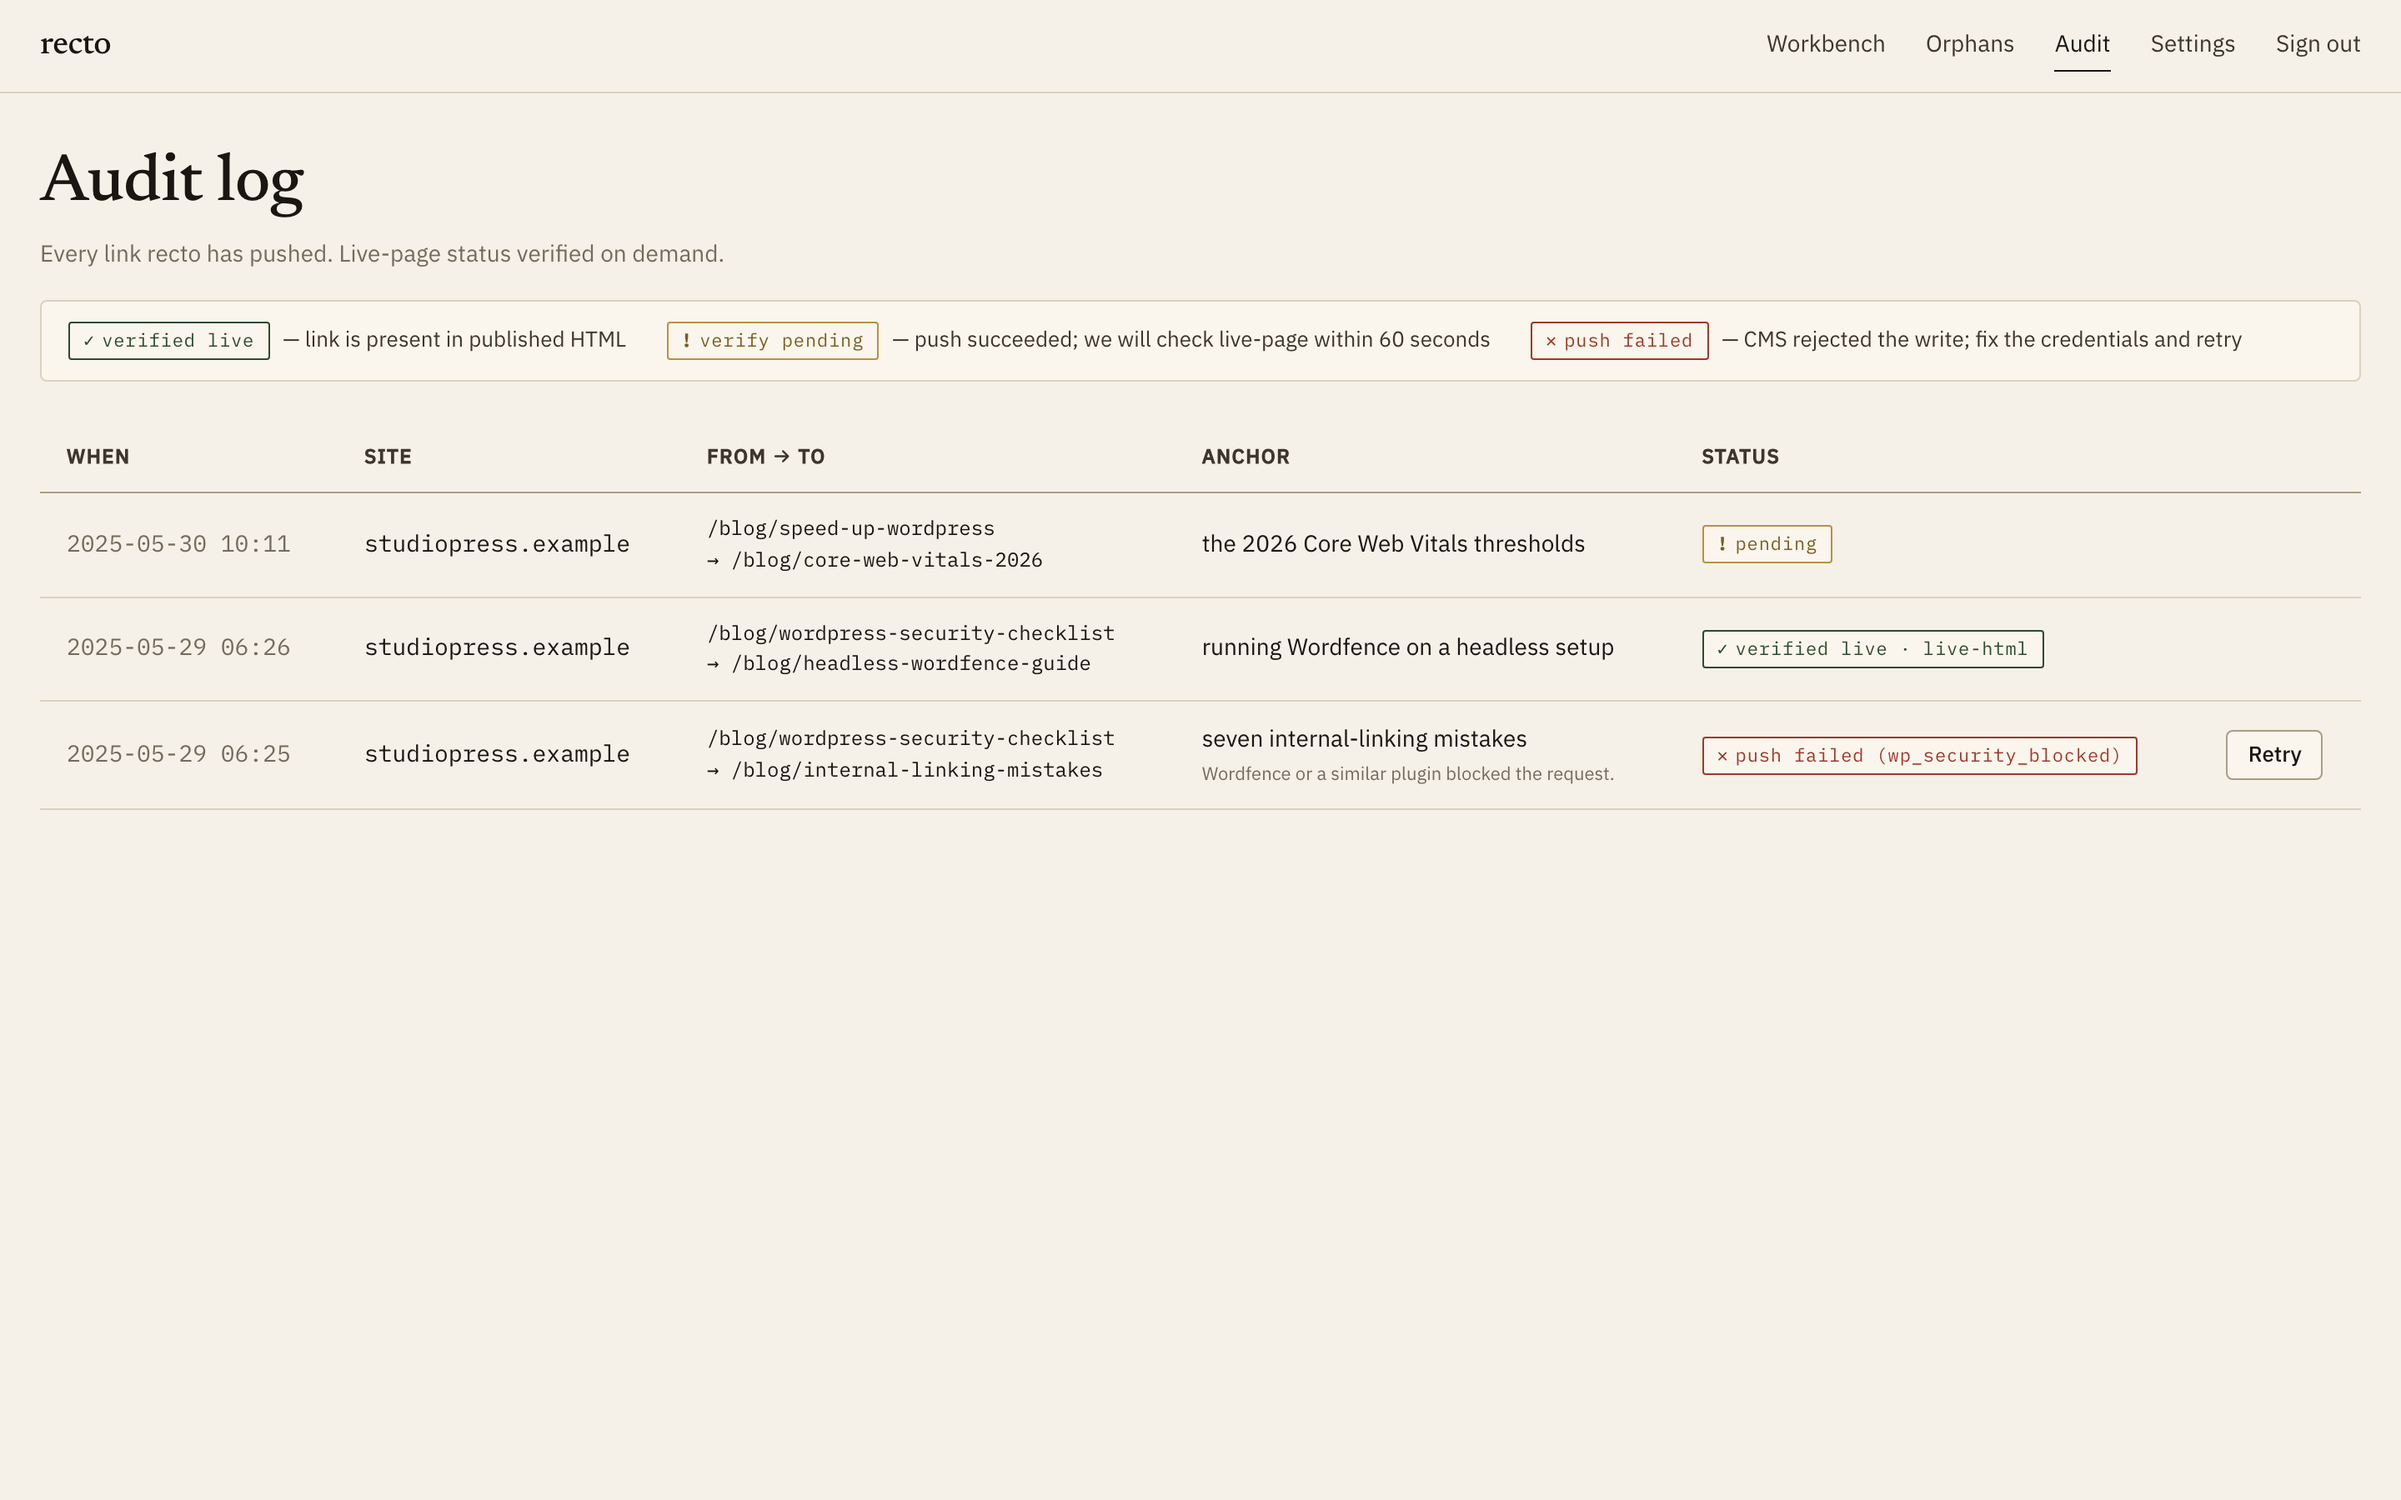
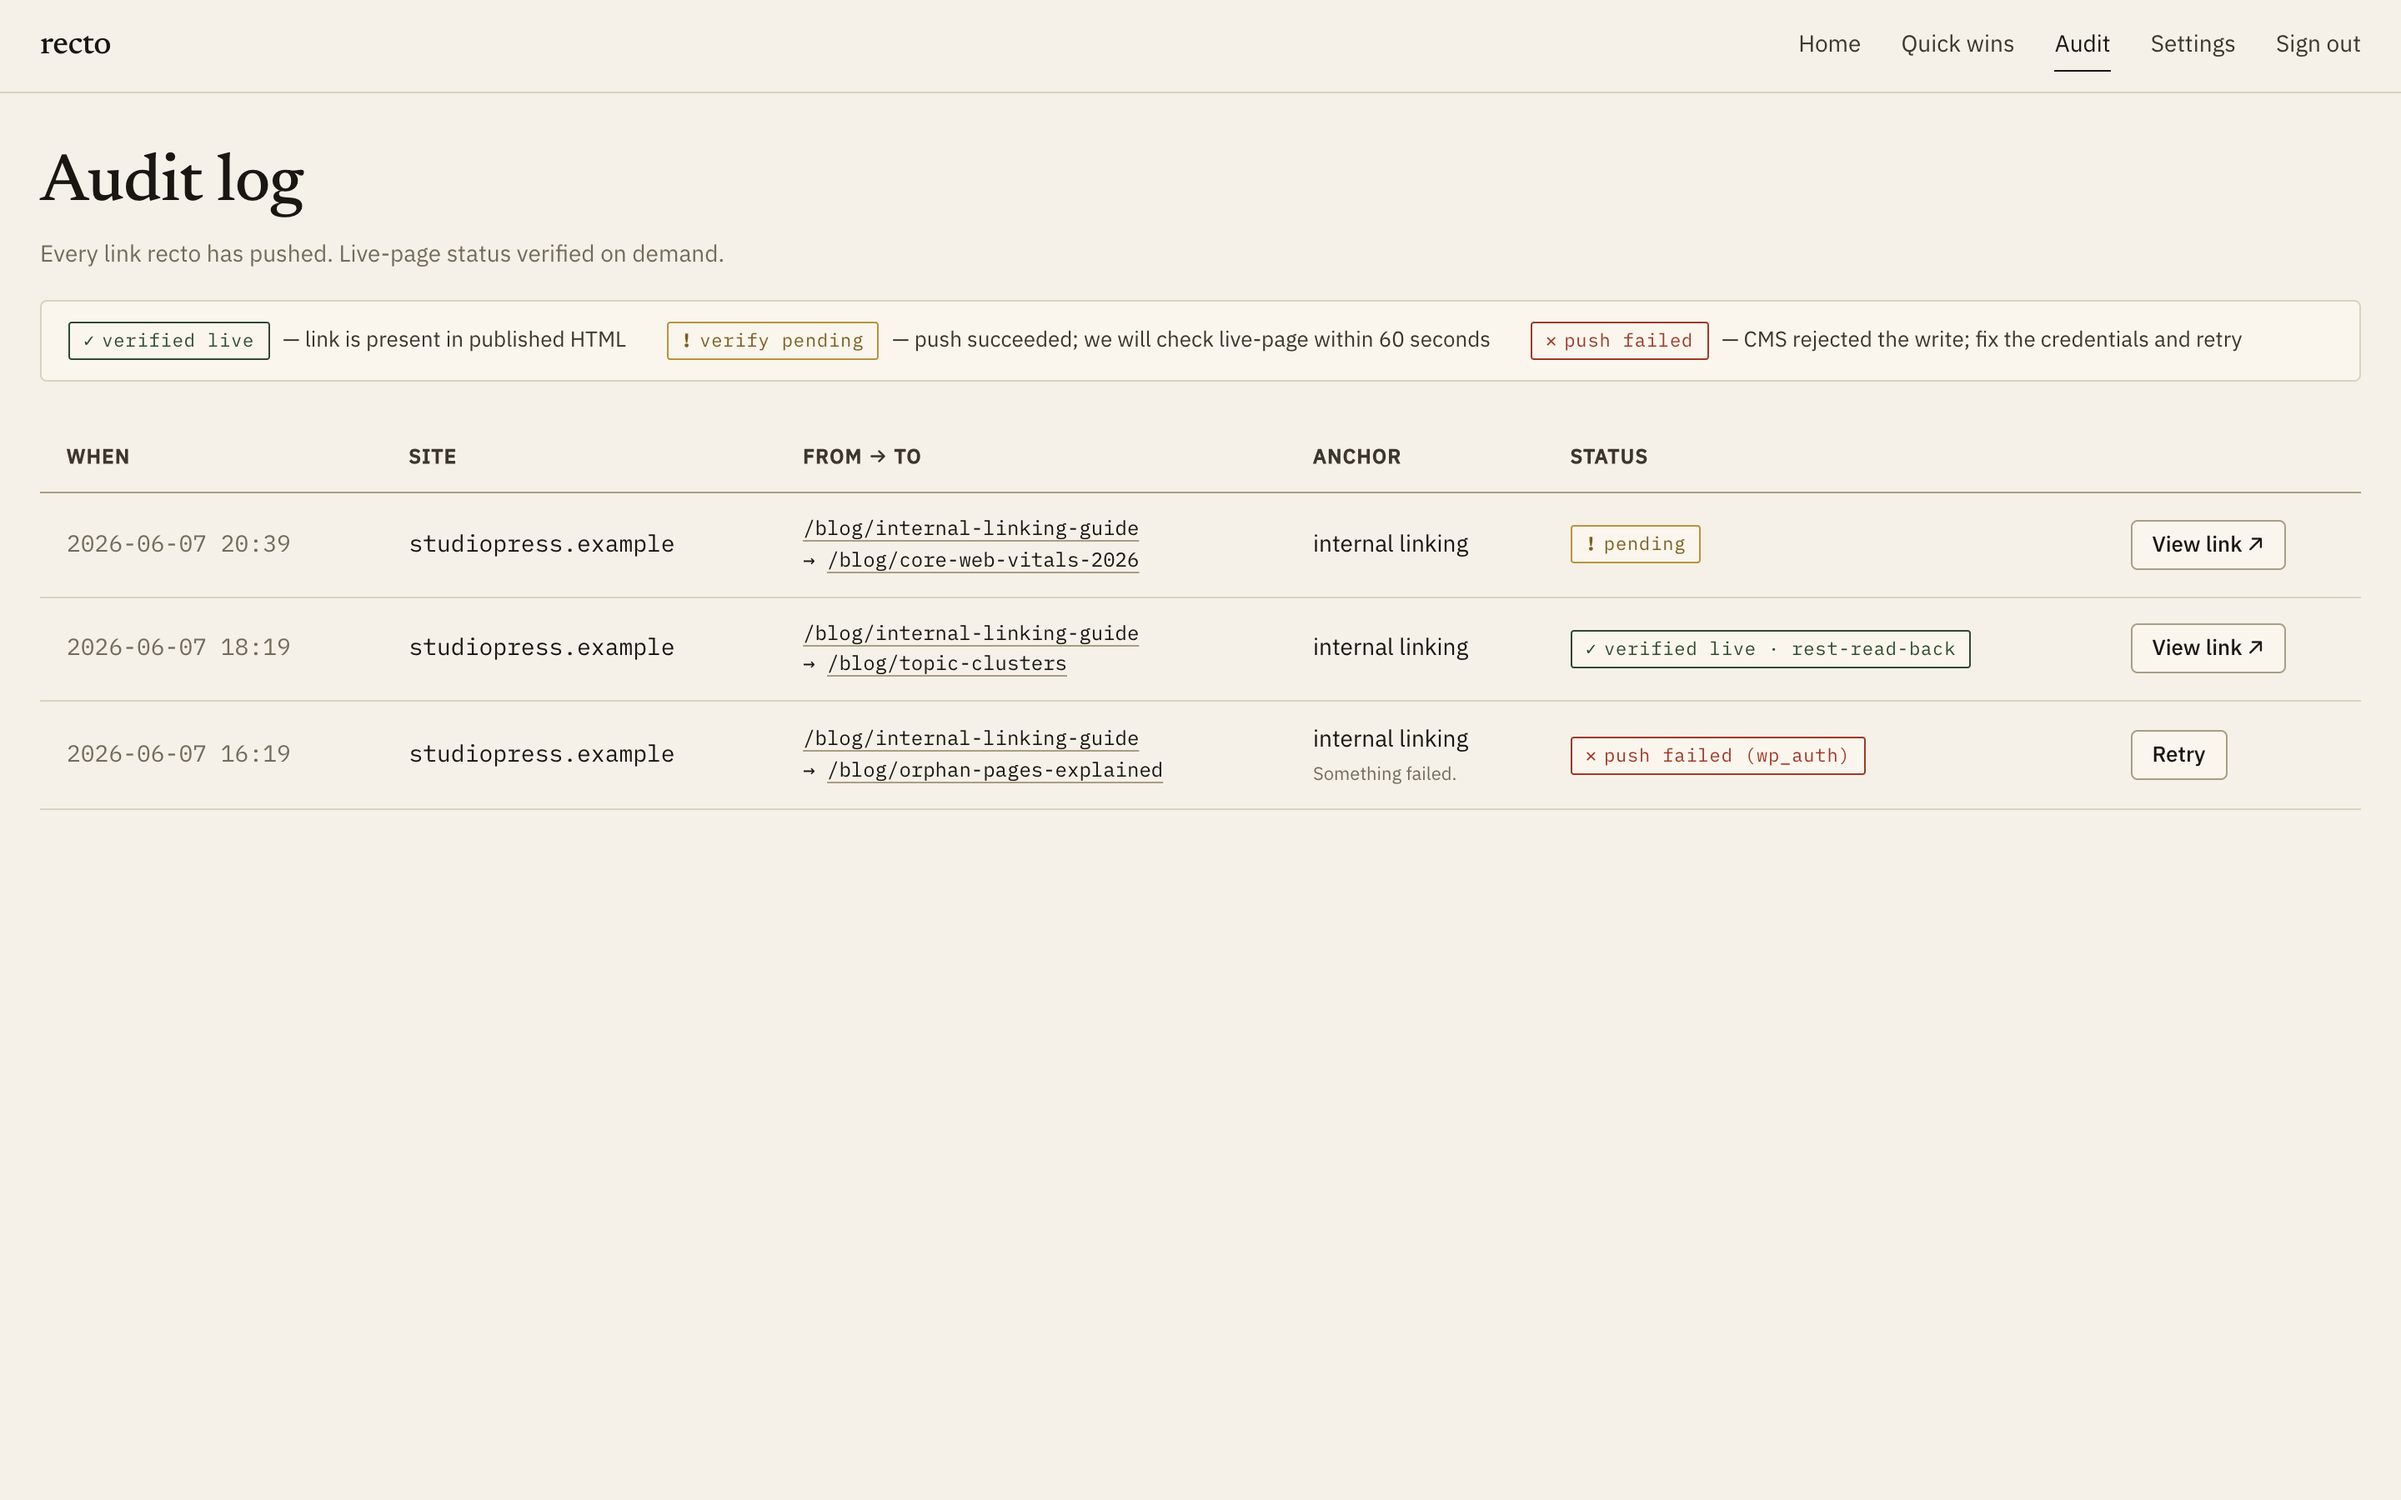
release: v1.2.1 — regenerate README visuals for the de-monetized UI
The v1.2.0 de-monetization removed the billing nav and credit/site-cap copy,
but the README screenshots and demo GIF predated it and still advertised those
removed surfaces. Recapture all four app screens and the demo GIF from the
current UI driven against a seeded local backend, and fix the Screenshots
caption that wrongly called them empty-state shells.

diff --git a/CHANGELOG.md b/CHANGELOG.md
@@ -5,6 +5,19 @@ All notable changes to this project are documented in this file.
 The format is based on [Keep a Changelog](https://keepachangelog.com/en/1.1.0/),
 and this project adheres to [Semantic Versioning](https://semver.org/spec/v2.0.0.html).
 
+## [1.2.1] - 2026-06-07
+
+A documentation-only release that brings the README visuals current with the
+de-monetized UI shipped in 1.2.0. No code or behavior changes.
+
+### Fixed
+- Regenerated every app screenshot (`app-workbench`, `app-orphans`,
+  `app-insertion`, `app-audit`) and the demo GIF from the current UI driven
+  against a seeded local backend. The previous assets predated de-monetization
+  and still showed the removed billing navigation and credit/site-cap copy.
+- Corrected the Screenshots caption, which incorrectly described the app shots
+  as empty-state shells captured without a backend; they are seeded captures.
+
 ## [1.2.0] - 2026-06-07
 
 This release brings the public repository current with the product and ships it

diff --git a/README.md b/README.md
@@ -102,9 +102,9 @@ shows the verify-state legend for every CMS push:
 
 [<img src="docs/screenshots/app-audit.png" alt="recto audit log with verify-state legend" width="720">](docs/screenshots/app-audit.png)
 
-<sub>The app screens (`docs/screenshots/app-*.png`) are the **static design shells**
-captured without a running backend — empty-state and loading copy is visible
-because no API is connected. Run `pnpm setup` to see them populated with live data.</sub>
+<sub>The app screens (`docs/screenshots/app-*.png`) are captured from the **real UI
+against a seeded local backend** — exactly what you get after `pnpm setup`. The
+example site, orphan rankings, and audit history are demo seed data.</sub>
 
 ## Quickstart
 
